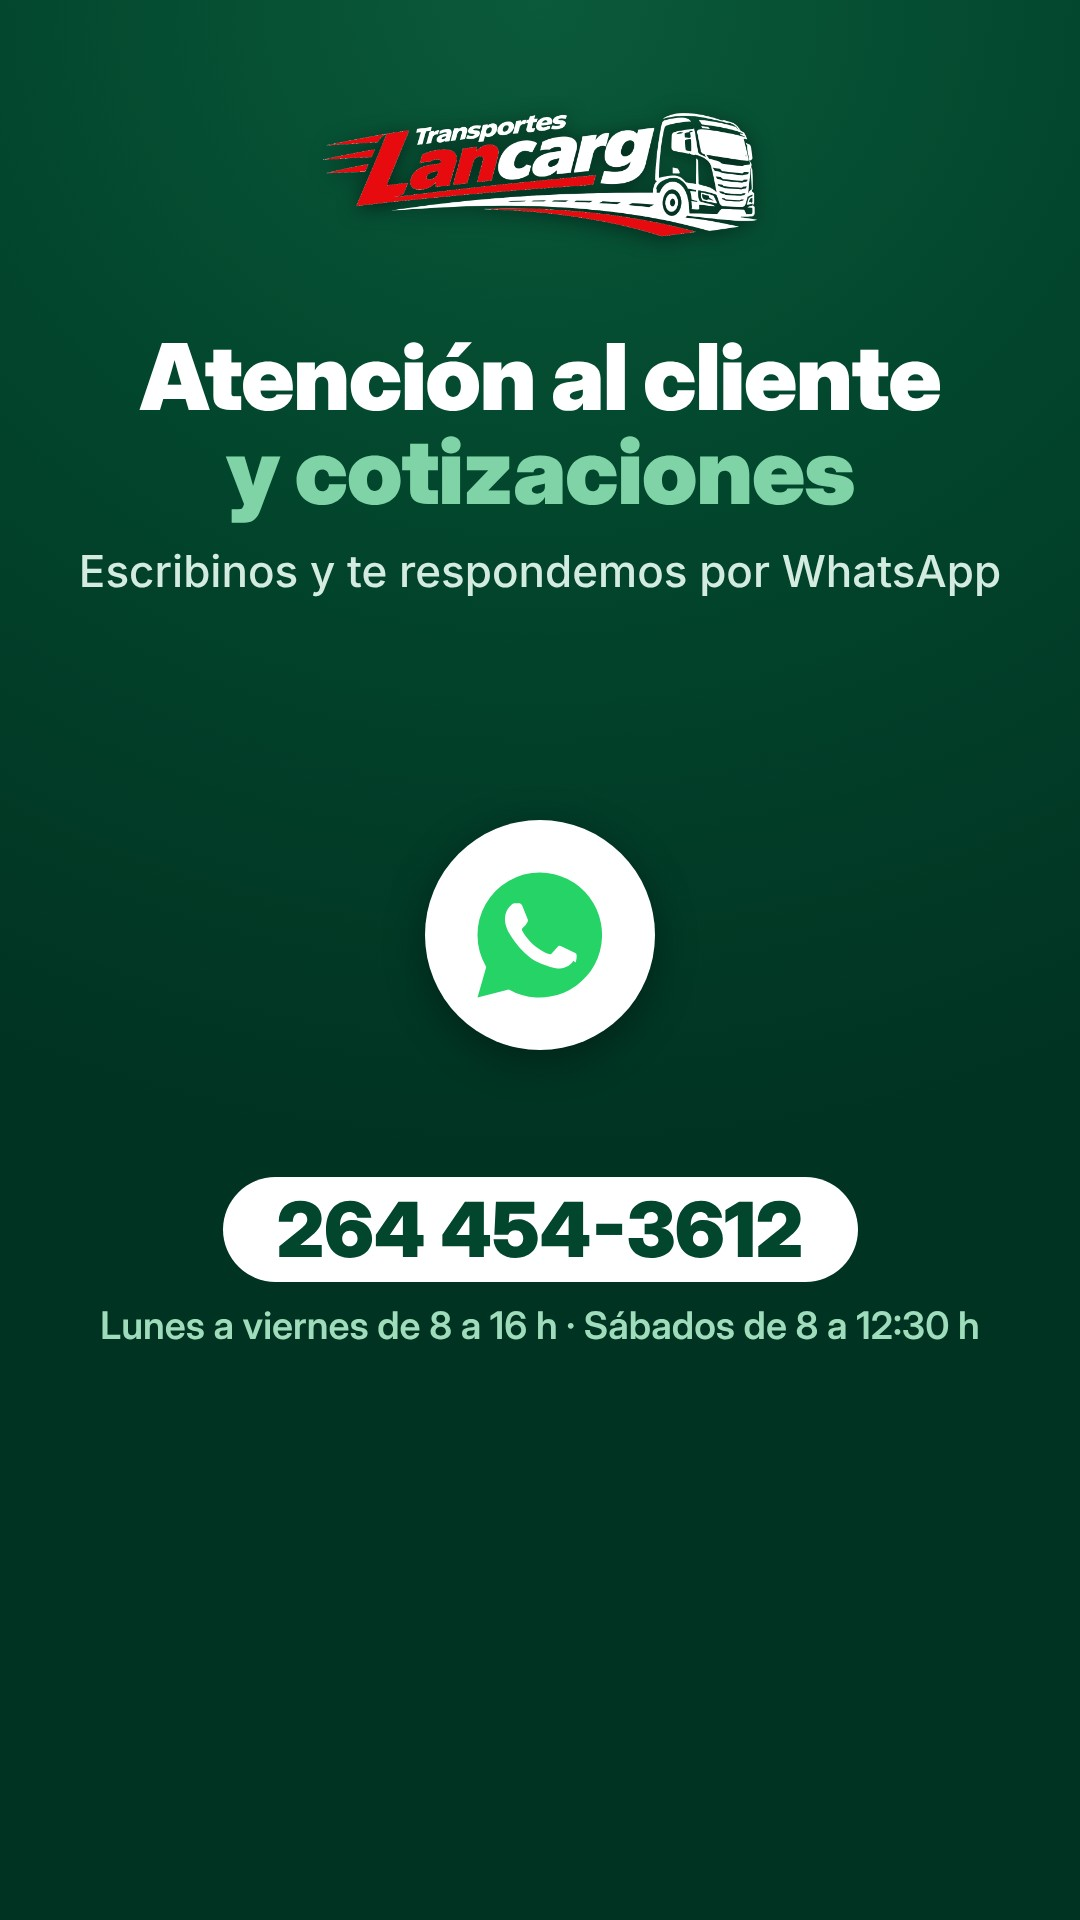
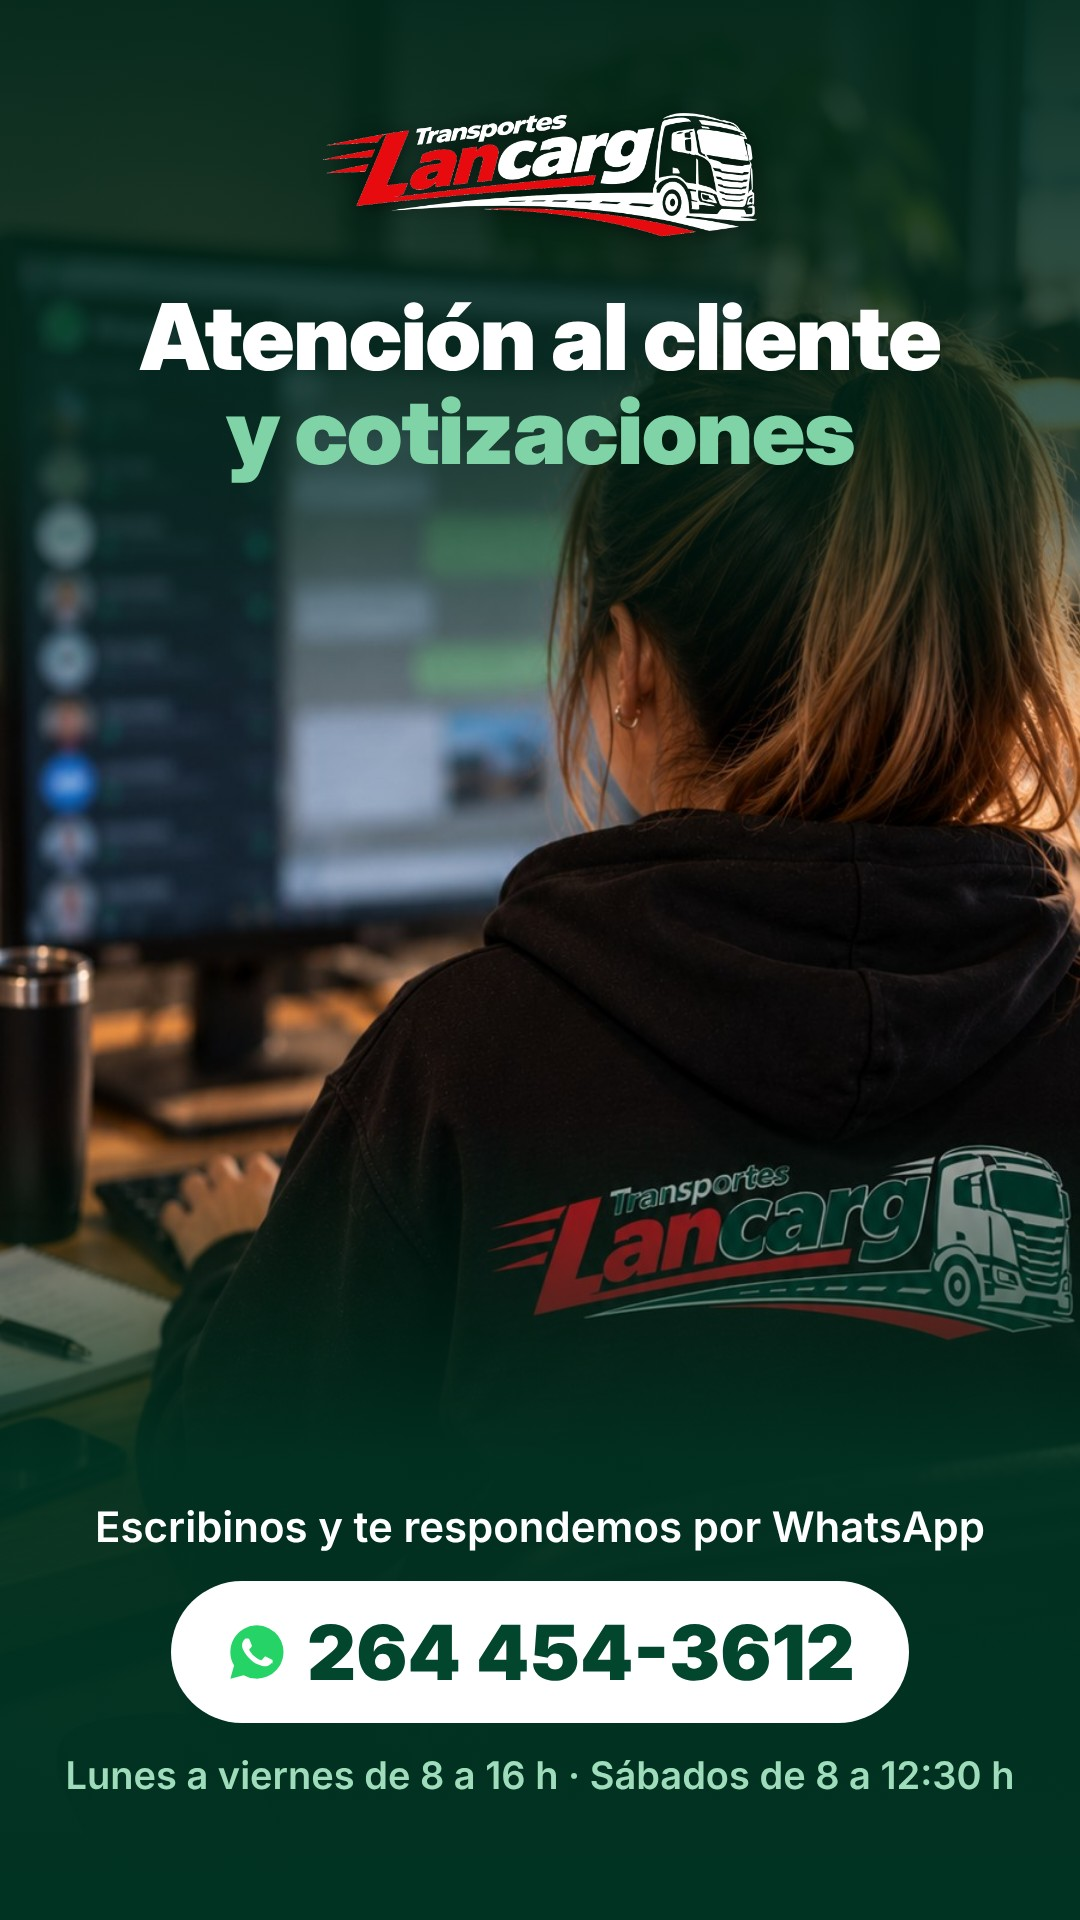
Fotos verticales, recortes y atención al cliente con foto
Claude-Session: https://claude.ai/code/session_01VCQyoaPqoNphJ14syEH6Au

diff --git a/publicaciones/2026-10-22-atencion-cliente/diseno.html b/publicaciones/2026-10-22-atencion-cliente/diseno.html
@@ -48,12 +48,12 @@ h2{font-family:"Inter Display",Inter;font-weight:900;font-size:76px;line-height:
 .c .p{display:flex;align-items:center;gap:12px;font-size:38px;font-weight:700;margin-top:10px}
 .foot2{position:absolute;left:70px;right:70px;bottom:150px;text-align:center;font-size:34px;font-weight:600;color:#9fdcbb}
 
-.at .head{top:330px}
+.at .head{top:290px;z-index:4}
 .at h2{font-size:96px;line-height:1.02}
 .at .sub2{font-size:44px;font-weight:500;color:#d4ecdf;margin-top:26px}
-.bigwa{position:absolute;left:0;right:0;top:820px;display:flex;justify-content:center}
+.bigwa{display:none!important;position:absolute;left:0;right:0;top:820px;display:flex;justify-content:center}
 .bigwa .circ{width:230px;height:230px;border-radius:50%;background:#fff;display:grid;place-items:center;box-shadow:0 10px 40px rgba(0,0,0,.35)}
-.num{position:absolute;left:0;right:0;top:1120px;text-align:center}
+.num{position:absolute;left:0;right:0;top:1500px;text-align:center;z-index:4;font-family:Inter;font-size:inherit;line-height:1.3;color:#fff}
 .num .n{display:inline-block;background:#fff;color:var(--g);font-weight:900;font-size:76px;padding:22px 54px;border-radius:999px}
 .num .l{font-size:38px;font-weight:600;color:#9fdcbb;margin-top:28px}
-</style></head><body><div class="slide story dest at"><img class="logo" src="../../marca/logo-lancarg-sobre-verde.png"><div class="head"><h2>Atención al cliente<br><span style="color:#7fd3a6">y cotizaciones</span></h2><div class="sub2">Escribinos y te respondemos por WhatsApp</div></div><div class="bigwa"><div class="circ"><svg width="150" height="150" viewBox="0 0 24 24" fill="#25D366"><path d="M12 2a10 10 0 0 0-8.6 15.1L2 22l5-1.3A10 10 0 1 0 12 2zm5.3 14.1c-.2.6-1.3 1.2-1.8 1.2-.5.1-1 .2-3.3-.7-2.8-1.1-4.5-4-4.7-4.2-.1-.2-1.1-1.5-1.1-2.9s.7-2 1-2.3c.2-.3.5-.3.7-.3h.5c.2 0 .4 0 .6.5l.8 2c.1.2.1.4 0 .5l-.3.5-.4.4c-.1.1-.3.3-.1.6.2.3.8 1.3 1.7 2.1 1.2 1 2.1 1.4 2.4 1.5.3.1.5.1.6-.1l.9-1c.2-.3.4-.2.6-.1l1.9.9c.3.1.5.2.5.3.1.2.1.7-.1 1.4z"/></svg></div></div><div class="num"><div class="n">264 454-3612</div><div class="l">Lunes a viernes de 8 a 16 h · Sábados de 8 a 12:30 h</div></div></div></body></html>
+</style></head><body><div class="slide story dest at"><img class="bg" src="../../fotos/chica-respondiendo-whatsapp.jpg" style="object-position:50% 50%"><div style="position:absolute;inset:0;background:linear-gradient(180deg,rgba(1,40,26,.95) 0%,rgba(1,40,26,.75) 22%,rgba(1,40,26,0) 38%,rgba(1,40,26,0) 58%,rgba(1,51,34,.92) 76%,#013322 100%)"></div><img class="logo" src="../../marca/logo-lancarg-sobre-verde.png"><div class="head"><h2>Atención al cliente<br><span style="color:#7fd3a6">y cotizaciones</span></h2></div><div class="bigwa"><div class="circ"><svg width="150" height="150" viewBox="0 0 24 24" fill="#25D366"><path d="M12 2a10 10 0 0 0-8.6 15.1L2 22l5-1.3A10 10 0 1 0 12 2zm5.3 14.1c-.2.6-1.3 1.2-1.8 1.2-.5.1-1 .2-3.3-.7-2.8-1.1-4.5-4-4.7-4.2-.1-.2-1.1-1.5-1.1-2.9s.7-2 1-2.3c.2-.3.5-.3.7-.3h.5c.2 0 .4 0 .6.5l.8 2c.1.2.1.4 0 .5l-.3.5-.4.4c-.1.1-.3.3-.1.6.2.3.8 1.3 1.7 2.1 1.2 1 2.1 1.4 2.4 1.5.3.1.5.1.6-.1l.9-1c.2-.3.4-.2.6-.1l1.9.9c.3.1.5.2.5.3.1.2.1.7-.1 1.4z"/></svg></div></div><div class="num"><div style="font-size:42px;font-weight:600;margin-bottom:26px;color:#fff">Escribinos y te respondemos por WhatsApp</div><div class="n" style="display:inline-flex;align-items:center;gap:18px"><svg width="64" height="64" viewBox="0 0 24 24" fill="#25D366"><path d="M12 2a10 10 0 0 0-8.6 15.1L2 22l5-1.3A10 10 0 1 0 12 2zm5.3 14.1c-.2.6-1.3 1.2-1.8 1.2-.5.1-1 .2-3.3-.7-2.8-1.1-4.5-4-4.7-4.2-.1-.2-1.1-1.5-1.1-2.9s.7-2 1-2.3c.2-.3.5-.3.7-.3h.5c.2 0 .4 0 .6.5l.8 2c.1.2.1.4 0 .5l-.3.5-.4.4c-.1.1-.3.3-.1.6.2.3.8 1.3 1.7 2.1 1.2 1 2.1 1.4 2.4 1.5.3.1.5.1.6-.1l.9-1c.2-.3.4-.2.6-.1l1.9.9c.3.1.5.2.5.3.1.2.1.7-.1 1.4z"/></svg>264 454-3612</div><div class="l">Lunes a viernes de 8 a 16 h · Sábados de 8 a 12:30 h</div></div></div></body></html>

diff --git a/CLAUDE.md b/CLAUDE.md
@@ -20,6 +20,8 @@ Metricool descarga cada imagen desde su link "raw" de GitHub. Acá va SOLO conte
 ## Carpetas
 
 - `fotos/` — fotos reales de la empresa (camiones, depósitos, cajas). Base de todos los diseños.
+  - `fotos/vertical/` — versiones 9:16: usarlas primero en historias (llenan la pantalla, sin franjas).
+  - `fotos/recortes/` — paquetes en PNG sin fondo para componer flyers libremente.
 - `marca/` — logos. `logo-lancarg-sobre-verde.png` para fondos verdes o fotos; `logo-lancarg-color-transparente.png` para fondos claros.
 - `pedidos/` — imágenes que Fran crea a pedido (también puede subirlas a Drive, carpeta "fotos lancarg").
 - `plantillas/` — `ejemplo-carrusel.html` (estilo de referencia) y `render.py`.
